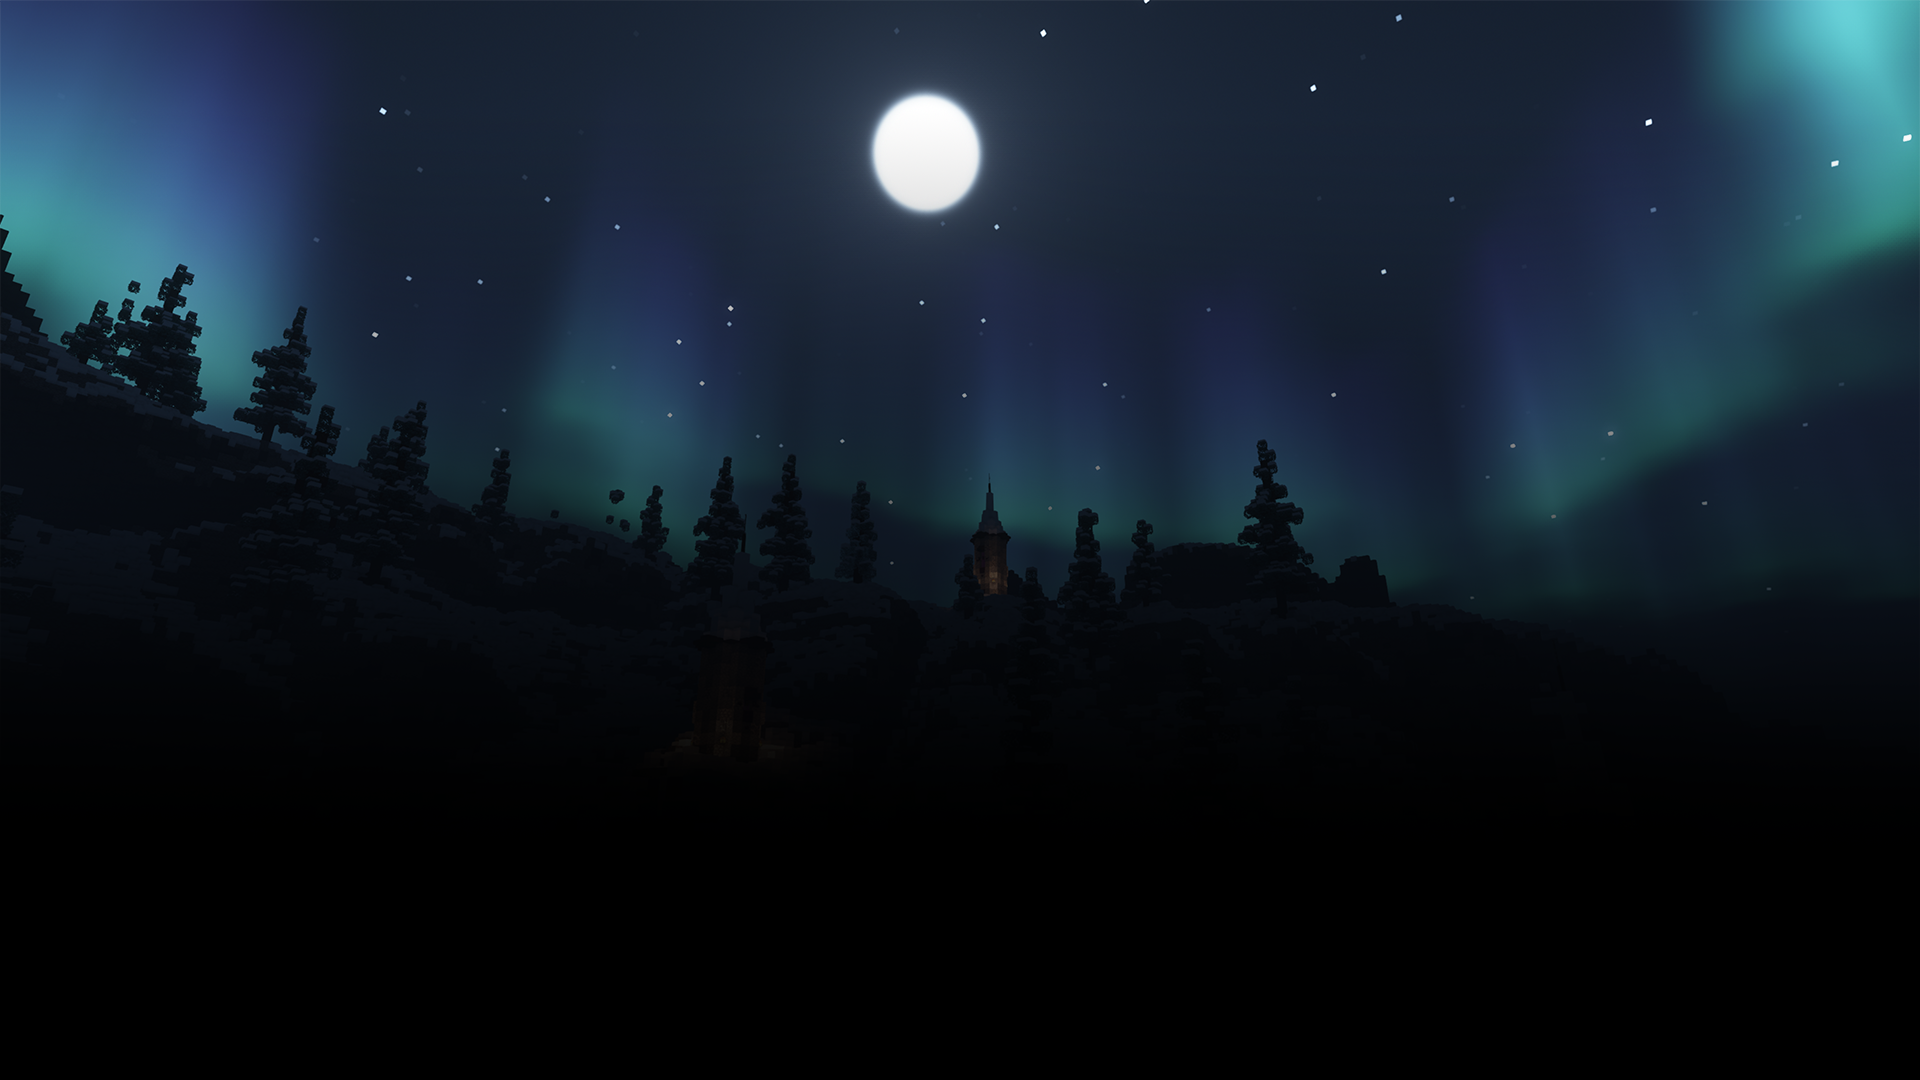
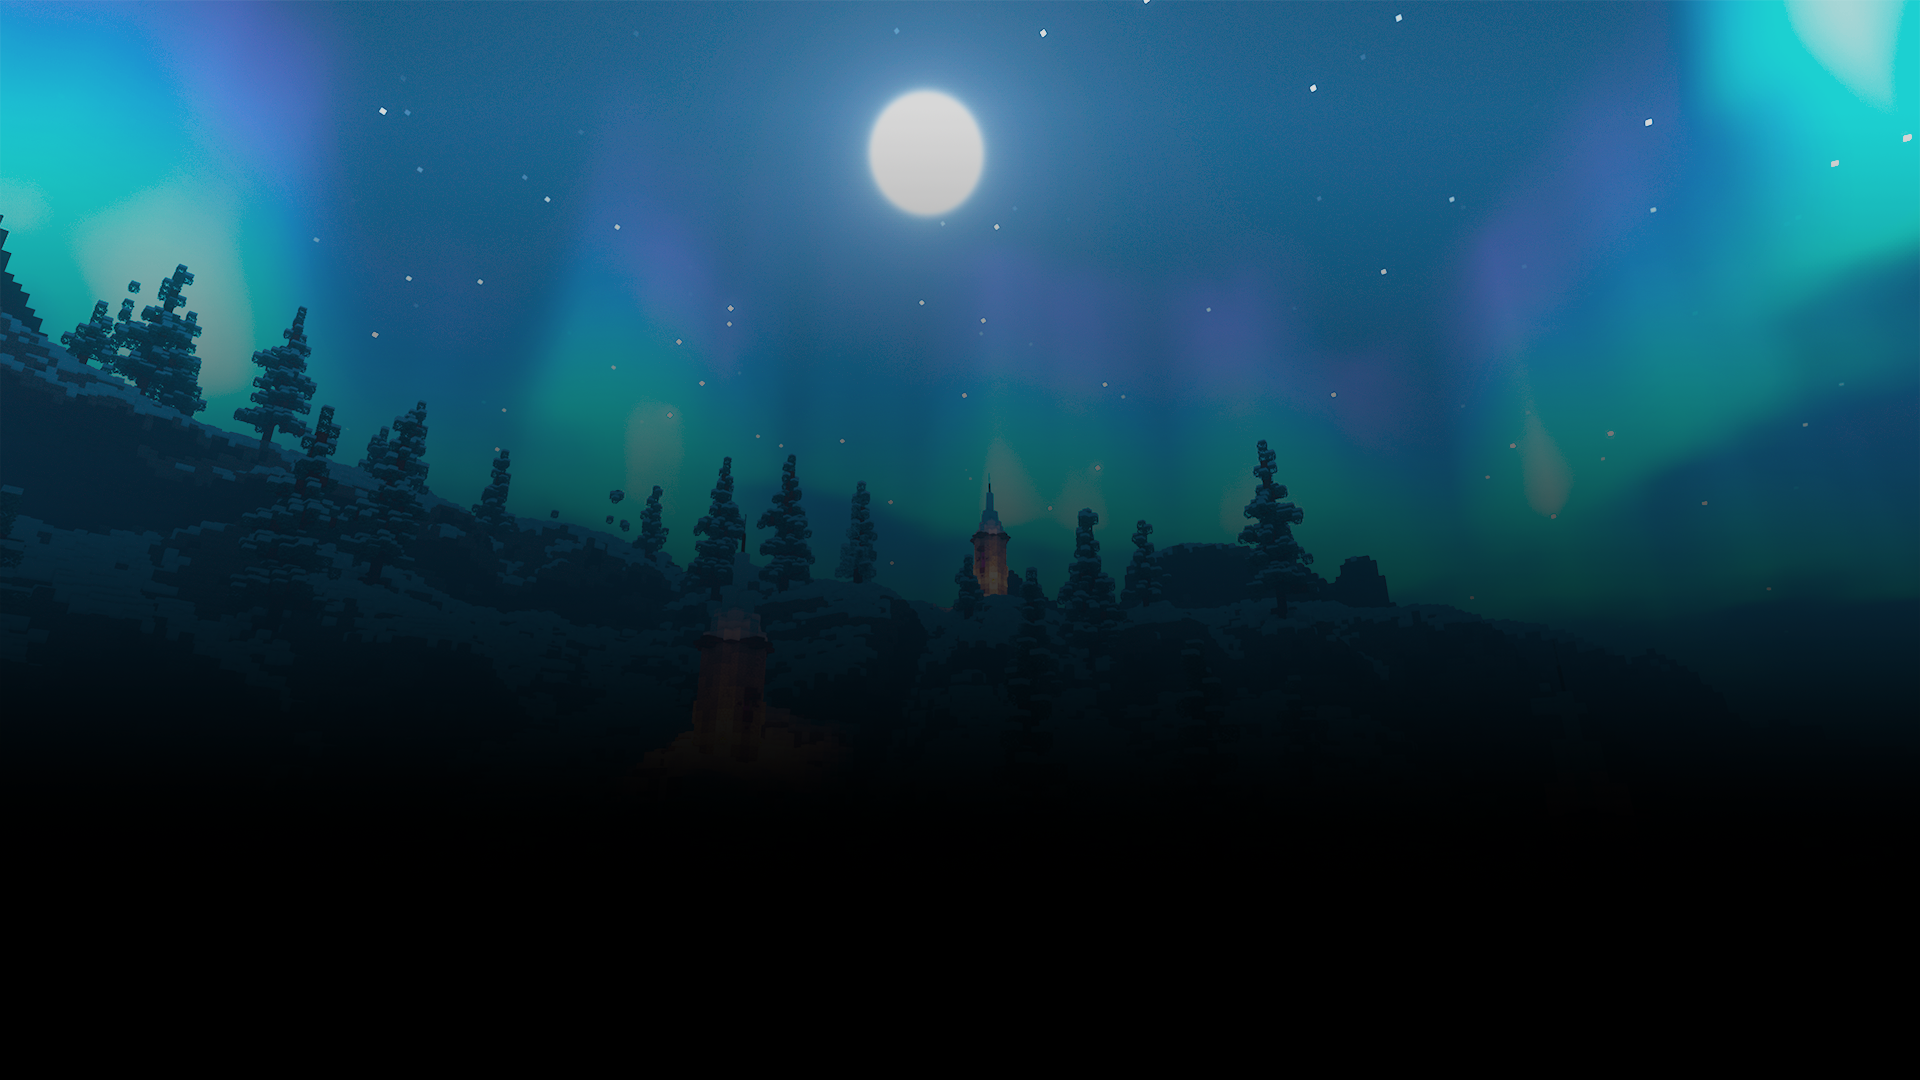
changed the bg

diff --git a/styles.scss b/styles.scss
@@ -79,10 +79,11 @@ html {
 }
 
 nav {
-    background-image: url(images/shaders/night.png);
-    background-position: center;
+    background-image: url(images/shaders/night.png), url(images/shaders/nightblur.png);
+    background-position: center, center;
+    background-repeat: no-repeat, repeat;
     background-size: 1920px;
-    min-height: 600px;
+    min-height: 630px;
     align-items: flex-end;
     flex-direction: column;
     transition: ease-in-out 0.5s;

diff --git a/styles.css b/styles.css
@@ -87,10 +87,11 @@ html {
 }
 
 nav {
-  background-image: url(images/shaders/night.png);
-  background-position: center;
+  background-image: url(images/shaders/night.png), url(images/shaders/nightblur.png);
+  background-position: center, center;
+  background-repeat: no-repeat, repeat;
   background-size: 1920px;
-  min-height: 600px;
+  min-height: 630px;
   -webkit-box-align: end;
       -ms-flex-align: end;
           align-items: flex-end;
